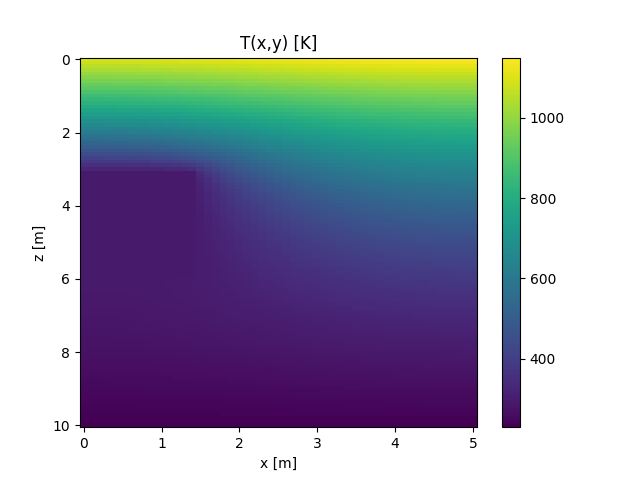
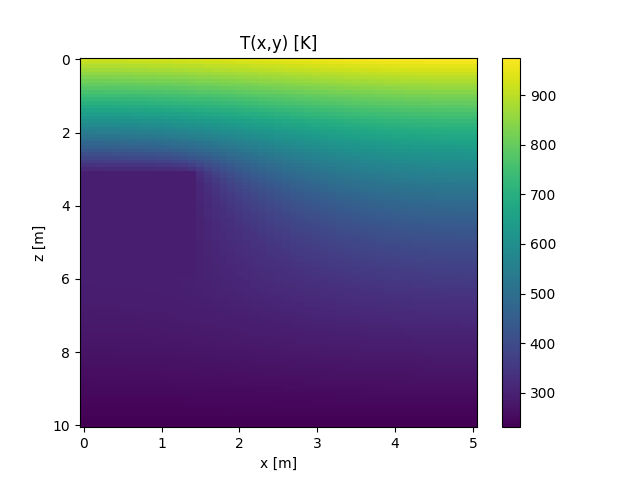
test

diff --git a/methode_matrice_2D.py b/methode_matrice_2D.py
@@ -77,7 +77,7 @@ def methode_matrice_2D(C_p, K, rho, tau, Q_0, T_s, d_pS, p, l_x, l_z, Lx, Lz, te
 
 # Définition des constantes des planètes
 C_p = 675
-K=1
+K=2
 rho=2000
 tau=43200
 Q_0=492
@@ -96,7 +96,7 @@ d=0.1 #(m)
 # Obtention des matrices et du maillage
 A, b, Nx, Nz = methode_matrice_2D(C_p=C_p, K=K, rho=rho, tau=tau, Q_0=Q_0, T_s=T_s, d_pS=d_pS, p=p, l_x=l_x, l_z=l_z, Lx=Lx, Lz=Lz, temps = temps, d =d)
 
-# Résolution du système d'équations
+# # Résolution du système d'équations
 # T=np.zeros((Nx*Nz,1),dtype=np.double)
 # Tr=np.zeros((Nz,Nx),dtype=np.double)
 

diff --git a/methode_matrice_2D_temporelle.py b/methode_matrice_2D_temporelle.py
@@ -42,7 +42,7 @@ A0, b0, Nx, Nz = methode_matrice_2D(C_p=C_p, K=K, rho=rho, tau=tau, Q_0=Q_0, T_s
 
 
 Uo = np.matrix(np.zeros((Nx*Nz,1)))
-alpha = 5
+alpha = 1.48*10**(-6)
 
 #Définition Matrice M
 M = np.matrix(np.eye(Nx*Nz))
@@ -91,5 +91,5 @@ for t in tspace:
   os.remove(f'temperature2d{n}.png')
   n+=1
 
-imageio.v2.mimsave('temperature2d.gif', images)
+imageio.v2.mimsave('temperature2d_1.gif', images)
   
